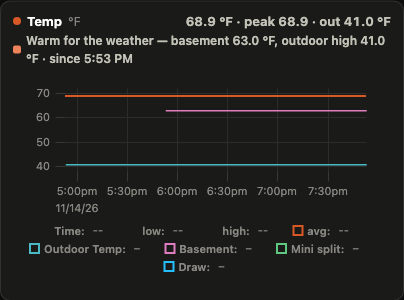
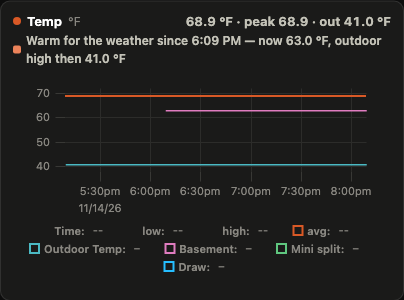
fix(basement): the latch could release without clearing, and the badge lied
Three defects from code review, all of them the payload claiming more than it
knew. Each was reproduced against the real code before it was fixed.

**1. The latch released after 42 hours with the basement still warm.**
`_uncleared_run` could only see the rows the query returned, so a basement
continuously above 62 °F for longer than `history_lookback()` had its trip
outside the evidence — and the watch answered `clear`, which #205 defines as
"a reading came back to 62 or below". None had. It now reports such a run as
truncated and answers `unknown`: no badge either way, but a different
published fact, and the bound is written down in the module, the glossary,
the README and ADR-003 instead of being a surprise.

**2. `since` marched forward while the watch was continuously on.** On a
truncated run the earliest *visible* trip advances one reading at a time as
the window slides, so a two-day-old condition read "since 1:30 AM" and then
"since 5:30 AM" the next morning. `since` is now published only when the
run's start is inside the evidence.

**3. The badge printed a live basement reading beside an outdoor high up to
42 hours old, with nothing to say so.** Reproduced: trip on a cold Monday
night, hot Tuesday, and at 16:00 the badge still read "outdoor high 41.0 °F"
while the real trailing high was 77 °F. The sentence now says which tense
each number is in — "Warm for the weather since 6:09 PM — now 63.0 °F,
outdoor high then 41.0 °F" — and the footer explains the gap.
[…]

Changed region(s): [[0.1485, 0.6, 0.9208, 0.72], [0.3861, 0.12, 0.9505, 0.18], [0.0594, 0.18, 0.3267, 0.24]]

diff --git a/static/dashboard.js b/static/dashboard.js
@@ -229,11 +229,18 @@ const METRICS = {
     // Both numbers, because either alone is half the claim: the basement
     // reading without the outdoor high reads as a thermostat complaint, and
     // the high without the basement reading does not say what is warm.
+    //
+    // "now" and "then" are load-bearing, not filler. `basement` is the newest
+    // reading and `outdoor_high` is the high as of the TRIP, which the latch
+    // can hold up to 42 hours behind it — so a standing watch can show
+    // "41 °F" through an afternoon that actually reached 77 °F. Stating the
+    // two tenses is cheaper than publishing a second high, and it is the
+    // honest sentence: the watch's claim has always been about the day
+    // behind the trip.
     badge.textContent =
-      "Warm for the weather — basement " +
-      fmt(watch.basement, 1) + " " + unit +
-      ", outdoor high " + fmt(watch.outdoor_high, 1) + " " + unit +
-      sinceSuffix(watch.since);
+      "Warm for the weather" + sinceSuffix(watch.since) +
+      " — now " + fmt(watch.basement, 1) + " " + unit +
+      ", outdoor high then " + fmt(watch.outdoor_high, 1) + " " + unit;
   }
 
   // When the watch was raised, in the reader's own clock. Omitted rather than
@@ -251,7 +258,7 @@ const METRICS = {
     if (Number.isNaN(at.getTime())) return "";
     const clock = at.toLocaleTimeString([], { hour: "numeric", minute: "2-digit" });
     const sameDay = at.toDateString() === new Date().toDateString();
-    return " · since " + (sameDay ? clock : at.toLocaleDateString() + " " + clock);
+    return " since " + (sameDay ? clock : at.toLocaleDateString() + " " + clock);
   }
 
   // Wash alert-event spans onto a chart, clipped to the plotting area.

diff --git a/templates/dashboard.html b/templates/dashboard.html
@@ -346,11 +346,14 @@ footer { color: var(--ink-muted); font-size: 11.5px; padding: 0 20px 20px; }
   once the head has been switched off for more than 30 minutes, because the
   bridge keeps reporting an off head's last reading; a break in every line is
   a bridge or mini-split-poller gap. A badge under the Temp card's header is
-  the <b>basement watch</b>: the basement is above 62 °F during the hours the
-  room is unoccupied and the outdoor high of the preceding 24 hours was below
-  62 °F too, so the weather does not account for it. It states a fact and
-  asks for nothing. No badge covers three different things — the basement is
-  below 62 °F, the hours do not apply, or no reading can be judged — and an
+  the <b>basement watch</b>: the basement went above 62 °F during the hours the
+  room is unoccupied, and the outdoor high of the 24 hours before that was
+  below 62 °F too, so the weather does not account for it. It holds until a
+  reading comes back to 62 °F or below, so the temperature it shows is
+  <b>now</b> and the outdoor high is <b>then</b> — they can be up to 42 hours
+  apart, which is why the badge says which is which. It states a fact and asks
+  for nothing. No badge covers three different things — the basement is below
+  62 °F, the hours do not apply, or no reading can be judged — and an
   outdoor-poller gap is the third of those, never a badge.
 </footer>
 <script src="{{ url_for('static', filename='uplot.iife.min.js') }}"></script>

diff --git a/awair/basement_watch.py b/awair/basement_watch.py
@@ -97,8 +97,10 @@ ATTRIBUTION_LOOKBACK = timedelta(hours=24)
 # yellow about the house. The direction matters — a missing observation can
 # only lower the observed high, and a lower high can only *add* a flag.
 #
-# Three hours, which at Open-Meteo's quarter-hourly cadence is twelve
-# consecutive misses. The bound is on where the peak could hide rather than on
+# Three hours, which at Open-Meteo's quarter-hourly cadence is eleven
+# consecutive misses: a gap of exactly 3 h spans twelve 900 s intervals and so
+# has eleven absent observations between the two present ones. The bound is
+# inclusive, so eleven is believed and twelve is refused. The bound is on where the peak could hide rather than on
 # how much data arrived: this house's outdoor high is a broad afternoon
 # plateau, not a spike, so a gap narrower than this cannot move the day's
 # maximum far. A judgment, and the one to revisit if the watch ever fires
@@ -225,13 +227,22 @@ def attributable_high(outdoor_rows, at: float) -> float | None:
     return max(c for _, c in window)
 
 
-def _unattributable(row, outdoor_rows) -> float | None:
-    """The outdoor high behind a reading that the weather cannot explain.
+# What one warm reading says about itself. Four outcomes rather than a
+# boolean, because `watch` has to tell "the weather explains this" from "we
+# cannot tell" — folding them together is how an outdoor outage ends up
+# published as CLEAR, which is the opposite claim.
+TRIP = "trip"
+ATTRIBUTED = "attributed"
+UNCERTAIN = "uncertain"
+OUTSIDE = "outside"
 
-    None when this reading is not a trip at all — outside the **watch
-    window**, the weather accounts for it, or the attribution window is
-    uncovered. The float it returns is the high itself, so the caller can
-    publish the number that justified the flag rather than re-deriving it.
+
+def _verdict_of(row, outdoor_rows) -> tuple[str, float | None]:
+    """What one warm reading is, and the outdoor high behind a `TRIP`.
+
+    The float comes back with `TRIP` so the caller can publish the number that
+    justified the flag rather than re-deriving it; every other outcome has no
+    number to publish.
 
     Takes `row` from `_uncleared_run`, so its temperature is a number and it
     is already above `WARM_ABOVE_C`; there is deliberately no second check for
@@ -245,29 +256,62 @@ def _unattributable(row, outdoor_rows) -> float | None:
     """
     at, _ = row
     if not in_watch_window(local(at)):
-        return None
+        return OUTSIDE, None
     high = attributable_high(outdoor_rows, at)
-    if high is None or high >= WARM_ABOVE_C:
-        return None
-    return high
+    if high is None:
+        return UNCERTAIN, None
+    if high >= WARM_ABOVE_C:
+        return ATTRIBUTED, None
+    return TRIP, high
 
 
-def _uncleared_run(readings: list[tuple[float, float]]) -> list[tuple[float, float]]:
-    """The newest readings, back to the last one at or below the threshold.
+def _uncleared_run(readings, horizon: float) -> tuple[list, bool]:
+    """The newest readings back to the last clear one, and whether it is whole.
 
     This is what makes the watch a latch rather than a re-decision: #205 says
     yellow "clears once the temp drops to 62 or below", so a trip inside the
     **watch window** keeps standing through the afternoon that follows it,
     until the basement actually comes back down. Derived from the rows rather
     than stored, so there is no state to get stuck and nothing to migrate.
+
+    **The second return value is the honesty half, and it is why `horizon` is
+    an argument.** A stateless latch can only see as far back as the rows it
+    was handed, so a basement that has been warm for longer than
+    `history_lookback()` has its original trip outside the evidence entirely.
+    Left unsaid, that reads as a watch that cleared — with no reading ever at
+    or below 62 °F, which is precisely what #205 says clearing means. So a run
+    that reaches the oldest row the query *could* have returned is reported as
+    truncated, and `watch` declines to call it either way.
+
+    The horizon test is "the data starts where the query did", not "no clear
+    reading was found": a sensor installed two hours ago has no clear reading
+    either, and its run is entirely visible. One stale-bound of slack, because
+    the first row after a `since` lands a poll or two later.
     """
-    run: list[tuple[float, float]] = []
+    run = []
     for reading in reversed(readings):
         if reading[1] <= WARM_ABOVE_C:
-            break
+            return list(reversed(run)), False
         run.append(reading)
-    run.reverse()
-    return run
+    reaches_horizon = bool(run) and readings[0][0] <= horizon + stale_after_seconds()
+    return list(reversed(run)), reaches_horizon
+
+
+def _first_trip(run, outdoor_rows) -> tuple[tuple | None, float | None, bool]:
+    """The earliest trip in the run, its outdoor high, and any uncertainty.
+
+    Returns at the first trip, so a long standing run costs one verdict per
+    reading only while it is NOT flagging. The third value is sticky across
+    the readings scanned: one warm reading we could not judge is enough to
+    stop the caller publishing CLEAR, which is a claim about the house.
+    """
+    uncertain = False
+    for reading in run:
+        verdict, high = _verdict_of(reading, outdoor_rows)
+        if verdict == TRIP:
+            return reading, high, uncertain
+        uncertain = uncertain or verdict == UNCERTAIN
+    return None, None, uncertain
 
 
 def watch(basement_rows, outdoor_rows, now: float) -> Watch:
@@ -295,22 +339,50 @@ def watch(basement_rows, outdoor_rows, now: float) -> Watch:
     # `<=` to `<` changed nothing observable, because the other guard covers
     # the boundary. A branch whose mutation cannot be detected is a branch no
     # test can hold, and two owners of one threshold is how they drift apart.
-    for trip in _uncleared_run(readings):
-        high = _unattributable(trip, outdoor_rows)
-        if high is not None:
-            return Watch(ON, since=trip[0], basement=celsius, outdoor_high=high)
+    run, truncated = _uncleared_run(readings, now - history_lookback().total_seconds())
+    trip, high, uncertain = _first_trip(run, outdoor_rows)
+    if trip is not None:
+        # `since` only when the run's start is inside the evidence: on a
+        # truncated run the earliest trip we can SEE marches forward one
+        # reading at a time as the window slides, so publishing it would make
+        # a two-day-old condition read "since 01:30" and then "since 05:30"
+        # the next morning. No stamp is the true answer.
+        return Watch(
+            ON,
+            since=None if truncated else trip[0],
+            basement=celsius,
+            outdoor_high=high,
+        )
+    if truncated or uncertain:
+        # Not CLEAR. "The weather explains every warm reading" and "we could
+        # not judge one of them" are different facts, and only the first is a
+        # statement about the house.
+        return Watch(UNKNOWN, basement=celsius)
     return Watch(CLEAR, basement=celsius)
 
 
 def history_lookback() -> timedelta:
-    """How much basement history `watch` needs to resolve the latch.
+    """How much basement history `watch` reads, and so how long the latch holds.
 
-    The longest **watch window** plus one attribution lookback: a trip can be
-    as old as the start of the window it happened in, and the oldest window a
-    reading can belong to is the weekday one, which is 18 hours wide. Shorter
-    than this and a flag raised at 23:30 would clear itself at 17:30 the next
-    day with the basement still warm — not because it cooled, but because the
-    trip fell off the back of the query.
+    The longest **watch window** plus one attribution lookback — 42 hours: a
+    trip can be as old as the start of the window it happened in, and the
+    oldest window a reading can belong to is the weekday one, which is 18
+    hours wide. Shorter than this and a flag raised at 23:30 would clear
+    itself at 17:30 the next day with the basement still warm — not because it
+    cooled, but because the trip fell off the back of the query.
+
+    **It is also a hard bound on the latch, and that bound is a real cost.**
+    #205 says the yellow clears when the basement comes back to 62 °F, and
+    nothing else. A stateless derivation cannot honour that indefinitely: a
+    basement continuously above 62 °F for longer than this has its original
+    trip outside every row the query returns. The watch does not pretend
+    otherwise — `_uncleared_run` reports such a run as truncated and `watch`
+    answers `UNKNOWN`, which renders as no badge but publishes as a different
+    fact from `CLEAR`. Raising the bound is not free either: `watch` evaluates
+    `attributable_high` per in-window reading, so the work grows with the
+    square of the horizon. Storing the trip is the fix if the truncated case
+    turns out to be common; it has never been observed, because the watch has
+    never fired.
     """
     opens, closes = WEEKDAY_WINDOW
     widest = timedelta(hours=(24 - opens) + closes)

diff --git a/tests/test_basement_watch.py b/tests/test_basement_watch.py
@@ -180,9 +180,15 @@ def test_a_warm_spell_behind_it_accounts_for_the_warmth_and_clears():
 
 
 def test_an_outdoor_outage_does_not_manufacture_a_yellow():
+    """And says so: UNKNOWN, not CLEAR.
+
+    A warm basement we could not judge is a different fact from one the
+    weather explains, and only the second is a statement about the house.
+    """
     now = at(SATURDAY, 3)
     state = basement_watch.watch(basement_run(at(SATURDAY, 2), WARM, 61), [], now)
-    assert state.status == CLEAR
+    assert state.status == UNKNOWN
+    assert state.outdoor_high is None
 
 
 def test_warm_outside_the_window_is_not_the_watchs_business():
@@ -308,3 +314,100 @@ def test_the_outdoor_lookback_reaches_past_the_oldest_trips_own_window():
             basement_watch.history_lookback() + basement_watch.ATTRIBUTION_LOOKBACK
         ).total_seconds()
     )
+
+
+# --- the attribution window's upper bound -----------------------------------
+
+
+def test_warmth_arriving_after_the_trip_does_not_clear_the_latch():
+    """The lookback ends AT the reading, and the latch is why that bites.
+
+    Once a watch is standing, every later afternoon is inside some reading's
+    trailing 24 hours. Without the `ts <= at` bound the trip itself would be
+    re-judged against weather that had not happened when it tripped, and a
+    hot Tuesday would retroactively explain a cold Monday night. Caught by a
+    mutation round: dropping the bound left every other test green.
+    """
+    trip_at = at(SATURDAY, 2)
+    now = at(SATURDAY, 16)
+    rows = outdoor_cover(trip_at, COLD := 5.0, hours=30)
+    rows += [(trip_at + i * 900, 25.0) for i in range(1, int(14 * 3600 / 900) + 1)]
+    state = basement_watch.watch(basement_run(trip_at, WARM, 841), sorted(rows), now)
+    assert state.status == ON
+    assert state.outdoor_high == COLD
+
+
+# --- the coverage bound, on both sides --------------------------------------
+
+
+def test_a_gap_of_exactly_the_bound_is_still_believed():
+    until = at(MONDAY, 2)
+    gap = basement_watch.MAX_ATTRIBUTION_GAP.total_seconds()
+    rows = outdoor_cover(until, 5.0)
+    opens = until - basement_watch.ATTRIBUTION_LOOKBACK.total_seconds()
+    hole = opens + 6 * 3600
+    kept = [(ts, c) for ts, c in rows if not hole < ts < hole + gap]
+    assert basement_watch.attributable_high(kept, until) == 5.0
+
+
+def test_one_second_past_the_bound_is_not():
+    until = at(MONDAY, 2)
+    gap = basement_watch.MAX_ATTRIBUTION_GAP.total_seconds()
+    rows = outdoor_cover(until, 5.0)
+    opens = until - basement_watch.ATTRIBUTION_LOOKBACK.total_seconds()
+    hole = opens + 6 * 3600
+    kept = [(ts, c) for ts, c in rows if not hole < ts < hole + gap + 1]
+    assert basement_watch.attributable_high(kept, until) is None
+
+
+# --- the latch's own horizon ------------------------------------------------
+
+
+def test_a_run_reaching_the_querys_first_row_is_unknown_not_clear():
+    """A basement warm for longer than the evidence must not read as cooled.
+
+    The trip is outside every row the query returns and every surviving
+    reading is attributable, so there is nothing left to flag on — but no
+    reading was ever at or below 62 °F either, which is the only thing #205
+    says clearing means.
+    """
+    horizon = basement_watch.history_lookback().total_seconds()
+    now = at(SATURDAY, 12)
+    rows = basement_run(now - horizon, WARM, int(horizon / 60) + 1)
+    state = basement_watch.watch(rows, outdoor_cover(now, 20.0, hours=70), now)
+    assert state.status == UNKNOWN
+    assert state.since is None
+
+
+def test_a_short_record_that_never_cleared_is_judged_normally():
+    """Control: 'no clear reading' is not the same as 'the run ran off the end'.
+
+    A sensor installed two hours ago has no clear reading either, and its run
+    is entirely visible. Same shape as the test above, two hours instead of
+    forty-two, and it must still reach a verdict.
+    """
+    now = at(SATURDAY, 3)
+    rows = basement_run(at(SATURDAY, 2), WARM, 61)
+    assert basement_watch.watch(rows, outdoor_cover(now, 5.0), now).status == ON
+
+
+def test_a_standing_watch_keeps_its_stamp_for_the_whole_horizon():
+    """The behavioural claim `history_lookback`'s docstring makes.
+
+    A trip at the weekday window's open is still reported with its own stamp
+    at the window's close eighteen hours later, with the basement never
+    cooling. Asserted through `watch` rather than by recomputing the formula:
+    a test that rebuilds `(24 - opens) + closes` catches a constant edit and
+    says nothing about the latch.
+    """
+    opens, _ = basement_watch.WEEKDAY_WINDOW
+    trip_at = at(MONDAY, opens)
+    now = trip_at + 18 * 3600
+    minutes = int((now - trip_at) / 60) + 1
+    state = basement_watch.watch(
+        basement_run(trip_at, WARM, minutes),
+        outdoor_cover(now, 5.0, hours=50),
+        now,
+    )
+    assert state.status == ON
+    assert state.since == trip_at

diff --git a/GLOSSARY.md b/GLOSSARY.md
@@ -13,8 +13,8 @@ same PR that lands the code.
 
 - **actuate** — Fire the intended fan state at the NodeMCU endpoint (`awair.fans.actuate`). Distinct from **decide**: `decide` produces the intent, `actuate` sends it.
 - **aq_ts** — The air-quality block's *own* `current.time`, stored on the **outdoor reading** row alongside `ts` (#71). Air quality is CAMS-backed and hourly while weather is quarter-hourly, so on a perfectly healthy row `aq_ts` lags `ts` by up to an hour — a row stamped 14:15 routinely carries a `us_aqi` measured at 13:00. Before #71 it was parsed and discarded, so nothing downstream could tell. **Not a substitute for `received_at`** (our poll wall-clock) and not the primary key (`ts` is). NULL means the AQI has no known observation time — the air-quality fetch failed for that poll (see **outdoor poll**'s `"partial"`), the row predates #71, or the source published a `current.time` this app refused to date: malformed, or **date-only** (#77 — `datetime.fromisoformat` would read `"2026-07-12"` as midnight and `"2026-07-12+05:00"` as 05:00, both times the source never published) — and the hub renders that as *"no current AQI"*, yellow, rather than folding an undateable number into a green. Deliberately not backfilled by the migration: inventing an observation time is exactly what this column exists to prevent.
-- **attributable high** — The highest **outdoor reading** temperature in the 24 hours before a basement reading (`basement_watch.attributable_high`, `ATTRIBUTION_LOOKBACK`), and the quantity the **basement watch** asks whether the weather can account for the basement's warmth. A trailing window rather than the calendar day `/api/outdoor-today` already publishes, decided on the record rather than on taste — see [ADR-003](docs/decisions/003-basement-watch-attributes-warmth-to-a-trailing-window.md): the two bases disagree about exactly one episode in the basement record (Sat 2026-11-07 00:00–07:00, 419 readings) and that episode is the residue of a 76.5/72.5/67.5 °F warm spell, which the calendar day flags and a trailing window does not. **`None` is not a low high.** A window carrying a hole wider than `MAX_ATTRIBUTION_GAP` (three hours, twelve consecutive quarter-hourly misses) answers `None` and the watch declines to flag on it — a missing observation can only lower the observed maximum, and in heating season a night-only window is always below the threshold, so without the coverage rule an outdoor-poller outage would raise a yellow about the house. The window's own two edges are part of the coverage test, so observations that all arrived in its first hour fail it rather than answering about the hour they have. Aliases to avoid: *outdoor high* (ambiguous between this and **outdoor today**'s day maximum), *the day's high*.
-- **basement watch** — The derived yellow on the temp card: the basement is above 62 °F during a **watch window** while the **attributable high** is below 62 °F (`awair.basement_watch.watch`, parsons-pulse #205). It **reports and never instructs** — no ntfy, no **event** row, nothing acts on it — because unlike the **spike** ceilings and **fan mitigation** it isolates no cause; it says "this is not the weather" and Tom decides. Three states, and two of them render the same: `on` draws the badge, `clear` and `unknown` draw nothing, published as separate keys because "the basement is fine" and "we have no reading to judge" are different facts and this dashboard has no grey. Latched rather than re-decided: a trip holds until a reading comes back to 62 °F or below, derived from the rows (`_uncleared_run`) so there is no state to get stuck. Per reading, never on a window mean. Published on `/api/series` as the one block whose window does **not** follow the range buttons — it is a verdict about now, and a verdict whose evidence shrank when somebody pressed Today would be a different rule per button. **It has never fired on real data** (0 of 898 candidate readings to 2026-11-14), so its first appearance is unverified against the house. Aliases to avoid: *basement alert* (there is no alert), *basement spike*, *the yellow*.
+- **attributable high** — The highest **outdoor reading** temperature in the 24 hours before a basement reading (`basement_watch.attributable_high`, `ATTRIBUTION_LOOKBACK`), and the quantity the **basement watch** asks whether the weather can account for the basement's warmth. A trailing window rather than the calendar day `/api/outdoor-today` already publishes, decided on the record rather than on taste — see [ADR-003](docs/decisions/003-basement-watch-attributes-warmth-to-a-trailing-window.md): the two bases disagree about exactly one episode in the basement record (Sat 2026-11-07 00:00–07:00, 419 readings) and that episode is the residue of a 76.5/72.5/67.5 °F warm spell, which the calendar day flags and a trailing window does not. **`None` is not a low high.** A window carrying a hole wider than `MAX_ATTRIBUTION_GAP` (three hours, eleven consecutive quarter-hourly misses — a 3 h gap spans twelve 900 s intervals and so has eleven absent observations inside it; the bound is inclusive) answers `None` and the watch declines to flag on it — a missing observation can only lower the observed maximum, and in heating season a night-only window is always below the threshold, so without the coverage rule an outdoor-poller outage would raise a yellow about the house. The window's own two edges are part of the coverage test, so observations that all arrived in its first hour fail it rather than answering about the hour they have. Aliases to avoid: *outdoor high* (ambiguous between this and **outdoor today**'s day maximum), *the day's high*.
+- **basement watch** — The derived yellow on the temp card: the basement is above 62 °F during a **watch window** while the **attributable high** is below 62 °F (`awair.basement_watch.watch`, parsons-pulse #205). It **reports and never instructs** — no ntfy, no **event** row, nothing acts on it — because unlike the **spike** ceilings and **fan mitigation** it isolates no cause; it says "this is not the weather" and Tom decides. Three states, and two of them render the same: `on` draws the badge, `clear` and `unknown` draw nothing, published as separate keys because "the basement is fine" and "we cannot judge this" are different facts and this dashboard has no grey. `unknown` covers four of them: no reading, a stale sensor, an uncovered **attributable high** behind a warm reading, and a truncated run. Latched rather than re-decided: a trip holds until a reading comes back to 62 °F or below, derived from the rows (`_uncleared_run`) so there is no state to get stuck — **for as long as the evidence reaches**, which is `history_lookback()`, 42 hours. A basement warm for longer than that has its original trip outside every row the query returns; the run is reported as truncated and the answer is `unknown`, never `clear`, because no reading was at or below 62 °F and clearing is the only thing #205 says that means. Storing the trip is the fix if that case is ever observed; it has not been. Per reading, never on a window mean. Published on `/api/series` as the one block whose window does **not** follow the range buttons — it is a verdict about now, and a verdict whose evidence shrank when somebody pressed Today would be a different rule per button. **It has never fired on real data** (0 of 898 candidate readings to 2026-11-14), so its first appearance is unverified against the house. Aliases to avoid: *basement alert* (there is no alert), *basement spike*, *the yellow*.
 - **carry-forward** — Holding a coarsely-sampled series onto a finer series' x-grid so the two can share one chart (`awair.series.carry_forward`, #109). Each grid stamp takes the newest observation at or before it, and `None` once that observation is older than a caller-supplied bound. Used for exactly one thing today: putting quarter-hourly outdoor temperature onto the indoor temperature chart's bucket grid, which is 60 s on `today` against a 30 s **poll**. **Neither interpolation nor a **series**.** It emits no `t`, `avg`, `min` or `max` — its x values *are* the grid it was handed, and publishing a second `t` beside it would be the same value written twice with nothing holding the copies in step. Three things it refuses to invent, each of which is the same refusal recorded under **aq_ts** and **unkeyed row**: it does not back-fill (a stamp earlier than every observation is `None`, because we did not know yet), it does not hold a `None` (an empty `bucket` window is "nothing landed here", not "unknown from here on", and is not evidence of freshness either — the age runs from the last *real* value), and it does not hold indefinitely. That last bound is the load-bearing one: without it a dead outdoor poller renders as a perfectly flat outdoor trace beside a moving indoor one, which on a chart asking *"does indoor follow outdoor"* is not a missing answer but a wrong one. `web._outdoor_carry_max_age_seconds()` sets it at **two** `outdoor.SOURCE_INTERVAL_SECONDS`. Derived at *call* time rather than at import, because that is the only way the claim is testable: bound at import, `2 * 900` and a literal `1800` are the same number to every test that can be written, and what is being asserted is that the window tracks the cadence rather than restating it. The bridging count depends on the grid, so state it as the bound rather than as a number of misses: **one publish interval of blank is always bridged, and a gap appears once the newest observation is more than two intervals old.** On the 30-day range the grid stamps are 900 s and Open-Meteo publishes on the quarter hour, so stamps land *on* publish instants and an age of exactly 1800 is still held (the bound is inclusive, deliberately) -- there, the gap opens on the third consecutive miss rather than the second.
 - **ceiling** — Per-metric absolute alert threshold on `MetricConfig` (`spikes.MetricConfig.ceiling`). A `ceiling`-tier event opens when the last 2 samples exceed it (bypasses the relative-baseline path). Dashboard renders it as a dashed reference line so autoscaled Y-axes don't visually collapse "still elevated" into "cleared" (#25). Values: co2=1200, voc=2200, pm25=35. Unrelated to the ceiling **fan** hardware; naming collision is intentional-and-fine.
 - **connect_readonly** — The query-only SQLite connection (`awair.db.connect_readonly`) the web app opens per request, as against **connect**, which bootstraps the schema and belongs to a process that owns the database. Opened `mode=ro`, so SQLite refuses the write rather than the code merely declining to make it (#73) — every `db` function `web.py` reaches is already query-only, and this keeps it that way. Before #73 each request replayed the whole DDL path: 5 SCHEMA statements plus 6 `ALTER TABLE`s whose duplicate-column errors `_add_column` swallows, at a median ~4× the cost of opening read-only (0.13 ms vs 0.03 ms, measured over 400 opens against an 80k-row database with a live writer) — harmless while a human clicking a dashboard was the only caller, and a schedule once **latest** gave a machine a reason to poll. The trade is that it **cannot create the file**: `create_app` bootstraps once at startup (twice in practice, since gunicorn runs two workers — the same race `_add_column` already tolerates against the pollers) so a fresh install still serves, and a database deleted under a running process now fails the request loudly instead of resurrecting empty. A bootstrap that *cannot* open the path is logged and swallowed rather than raised: `awairelement-web.service` is `Restart=always`, so raising would crash-loop the worker where the pre-#73 code merely 500ed `/api/*` and kept serving `/`. `journal_mode` is deliberately not set from here: it is a write, and the pragma already persists in the file header.

diff --git a/README.md b/README.md
@@ -72,7 +72,9 @@ is above 62 °F during the hours Tom says the room is unoccupied — weekdays
 the preceding 24 hours was below 62 °F too. A basement that is warm while the
 weather cannot account for it is warm for some reason inside the house. The
 watch reports and never instructs: there is no ntfy, no alert event and
-nothing that acts on it.
+nothing that acts on it. It holds until a reading comes back to 62 °F or
+below, so the basement temperature it shows is *now* and the outdoor high is
+*then* — up to 42 hours apart, which is why the badge says which is which.
 
 A trailing 24 hours rather than the calendar day, decided on the record rather
 than on taste — the two bases disagree about exactly one episode in the
@@ -83,7 +85,11 @@ data** — 0 of 898 candidate readings through 2026-11-14 — so its first
 appearance is worth going and looking at rather than trusting. And an
 outdoor-poller outage shows as **no badge**, never as a yellow: a maximum over
 a window with the afternoon missing is the night's high, so an uncovered
-attribution window is no verdict at all.
+attribution window is no verdict at all — published as `unknown`, which is a
+different key from `clear` even though both render as silence. The same goes
+for a basement warm for longer than the 42 hours of history the latch reads:
+its trip is outside the evidence, so the watch says `unknown` rather than
+claiming it cleared.
 
 Design and rationale live in [SCOPE.md](SCOPE.md); canonical vocabulary lives
 in [GLOSSARY.md](GLOSSARY.md).

diff --git a/docs/decisions/003-basement-watch-attributes-warmth-to-a-trailing-window.md b/docs/decisions/003-basement-watch-attributes-warmth-to-a-trailing-window.md
@@ -70,6 +70,13 @@ Two supporting rules come with it:
   than a thing to trust. A rule with no observed positive also cannot be
   tuned: if 62 °F turns out to be the wrong threshold, nothing in the record
   will say so.
+- **Bounds, not hidden:** the latch is stateless, so it holds only as far
+  back as `history_lookback()` reads — 42 hours of continuous warmth. Past
+  that the original trip is outside every row the query returns, and the
+  watch answers `unknown` rather than `clear`: no reading was ever at or
+  below 62 °F, and clearing is the only thing #205 says that means. Raising
+  the bound costs quadratically (one `attributable_high` per in-window
+  reading); storing the trip is the fix if the case is ever observed.
 - **Reverses if:** the watch fires during a long outdoor-poller outage (then
   `MAX_ATTRIBUTION_GAP` is too generous), or Tom reads a suppressed warm-spell
   morning as a yellow he wanted (then the basis goes back to the calendar day,
